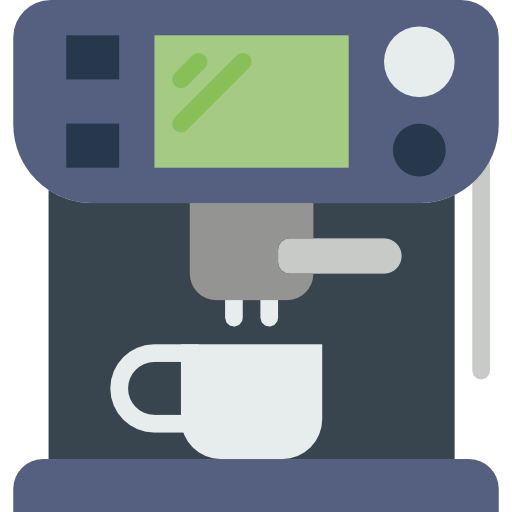
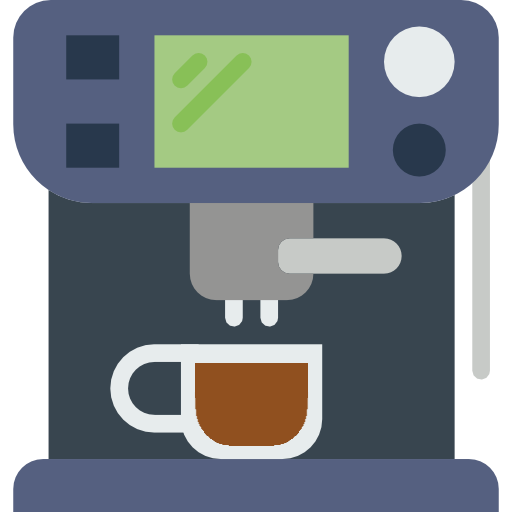
front-end demo

Changed region(s): [[0.375, 0.6875, 0.625, 0.875]]

diff --git a/src/main/webapp/templates/index.html b/src/main/webapp/templates/index.html
@@ -7,6 +7,7 @@
     <title>Coffee Machine</title>
     <link rel="stylesheet" href="https://stackpath.bootstrapcdn.com/bootstrap/4.1.3/css/bootstrap.min.css" integrity="sha384-MCw98/SFnGE8fJT3GXwEOngsV7Zt27NXFoaoApmYm81iuXoPkFOJwJ8ERdknLPMO" crossorigin="anonymous">
     <link href="https://fonts.googleapis.com/css?family=Gloria+Hallelujah" rel="stylesheet">
+    <link rel="stylesheet" href="https://use.fontawesome.com/releases/v5.3.1/css/all.css" integrity="sha384-mzrmE5qonljUremFsqc01SB46JvROS7bZs3IO2EmfFsd15uHvIt+Y8vEf7N7fWAU" crossorigin="anonymous">
     <link rel="stylesheet" href="/static/css/index.css">
     <script src="https://code.jquery.com/jquery-3.3.1.js" integrity="sha256-2Kok7MbOyxpgUVvAk/HJ2jigOSYS2auK4Pfzbm7uH60=" crossorigin="anonymous" defer></script>
     <script src="https://cdnjs.cloudflare.com/ajax/libs/popper.js/1.14.3/umd/popper.min.js" integrity="sha384-ZMP7rVo3mIykV+2+9J3UJ46jBk0WLaUAdn689aCwoqbBJiSnjAK/l8WvCWPIPm49" crossorigin="anonymous" defer></script>
@@ -29,21 +30,28 @@
                     <button id="espresso"></button>
                     <button id="long"></button>
                     <button id="doppio"></button>
-                    <button id="americano"><img src="/static/assets/americano.jpg"></button>
+                    <button id="americano"></button>
                 </div>
                 <div class="room-selector-wrapper">
-                    <button id="RED"></button>
-                    <button id="GREEN"></button>
-                    <button id="WHITE"></button>
-                    <button id="BLUE"></button>
+                    <button id="red">Red</button>
+                    <button id="green">Green</button>
+                    <button id="white">White</button>
+                    <button id="blue">Blue</button>
                 </div>
                 <div class="customer-name-wrapper">
                     <form id="customerForm" action="/" method="post">
-                        <label for="customerName">Your name</label><br>
                         <input id="customerName" type="text" name="customerName">
+                        <label id="customerNameLabel" for="customerName">Your name</label><br>
+                        <button type="submit" id="submitForm">Make my coffee <i class="fas fa-coffee"></i></button>
                     </form>
                 </div>
+                <div class="success">
+                    <img src="/static/assets/coffemade.gif">
+                </div>
             </div>
+            <div class="fill-coffee"></div>
+            <div class="coffee-flow flow1"></div>
+            <div class="coffee-flow flow2"></div>
         </div>
     </div>
 </body>

diff --git a/src/main/webapp/static/css/index.css b/src/main/webapp/static/css/index.css
@@ -123,6 +123,142 @@ body {
     display: none;
 }
 
+.room-selector-wrapper button {
+    position: absolute;
+    width: 18.5vh;
+    height: 13vh;
+    border: none;
+}
+
+.room-selector-wrapper button:hover {
+    border: 1px solid yellow;
+}
+
+.room-selector-wrapper #red {
+    top: 0;
+    left: 0;
+    background: red;
+    color: white;
+}
+
+.room-selector-wrapper #green {
+    top: 0;
+    right: 0;
+    background: green;
+    color: white;
+}
+
+.room-selector-wrapper #white {
+    top: 13vh;
+    left: 0;
+    background: white;
+    color: black;
+}
+
+.room-selector-wrapper #blue {
+    top: 13vh;
+    right: 0;
+    background: blue;
+    color: white;
+}
+
 .customer-name-wrapper {
     display: none;
 }
+
+.customer-name-wrapper #customerForm {
+    position: relative;
+    background: saddlebrown;
+    width: 37vh;
+    height: 26vh;
+}
+
+.customer-name-wrapper label {
+    position: absolute;
+    top: 6vh;
+    left: 2vh;
+    color: white;
+    transition: top ease-in-out 0.3s, font-size ease-in-out 0.3s;
+    z-index: 1;
+}
+
+.customer-name-wrapper #customerName {
+    background: none;
+    border: none;
+    border-bottom: 2px solid white;
+    width: 33vh;
+    margin-left: 2vh;
+    position: absolute;
+    top: 6vh;
+    color: white;
+    z-index: 2;
+}
+
+.customer-name-wrapper #customerName:focus {
+    outline: none;
+}
+
+.customer-name-wrapper #customerName:focus ~ #customerNameLabel {
+    position: absolute;
+    font-size: smaller;
+    top: 3vh;
+}
+
+.customer-name-wrapper #submitForm{
+    font-size: larger;
+    color: saddlebrown;
+    background: white;
+    border: none;
+    position: absolute;
+    top: 13vh;
+    width: 33vh;
+    height: 6vh;
+    margin: 2vh;
+    font-weight: bolder;
+    transition: color ease-in-out 0.15s, background ease-in-out 0.15s, border ease-in-out 0.15s;
+}
+
+.customer-name-wrapper #submitForm:hover{
+    color: white;
+    background: saddlebrown;
+    border: 1px solid white;
+}
+
+.success {
+    display: none;
+    background: white;
+    width: 37vh;
+    height: 26vh;
+}
+
+.success img {
+    left: 1.8vh;
+    position: absolute;
+    height: 26vh;
+}
+.fill-coffee {
+    width: 21.1vh;
+    height: 16.7vh;
+    position: absolute;
+    top: 71.6vh;
+    left: 36.1vh;
+    background: #e7eced;
+}
+
+.coffee-flow {
+    position: absolute;
+    width: 1.7vh;
+    height: 3.5vh;
+    top: 65.4vh;
+    background: #90501f;
+    display: none;
+}
+
+.coffee-flow.flow1 {
+    left: 42.6vh;
+}
+
+.coffee-flow.flow2 {
+    left: 49.2vh;
+}
+

diff --git a/src/main/webapp/static/js/index.js b/src/main/webapp/static/js/index.js
@@ -1,10 +1,52 @@
+var coffeeType;
+var customerRoom;
+var customerName;
+
 $(".coffee-selector-wrapper button").click(function () {
     event.preventDefault();
-    $("#customerForm").append("<input type='hidden' name='coffeeType' value='" + $(this).attr("id") + "'/>");
-    $(".coffee-selector-wrapper").slideDown();
-    $(".room-selector-wrapper").slideDown();
-
+    coffeeType = $(this).attr("id");
+    $(".coffee-selector-wrapper").fadeOut();
+    $(".room-selector-wrapper").fadeIn();
 });
+
+$(".room-selector-wrapper button").click(function () {
+    event.preventDefault();
+    customerRoom = $(this).attr("id");
+    $(".room-selector-wrapper").fadeOut();
+    $(".customer-name-wrapper").fadeIn();
+});
+
+$("#customerForm button").click(function () {
+    event.preventDefault();
+    customerName = $("#customerForm #customerName").val();
+    $.ajax({
+        type: 'post',
+        url: '/',
+        data: "coffeeType=" + coffeeType + "&customerRoom=" + customerRoom + "&customerName=" + customerName,
+        success: function(data){
+            $(".customer-name-wrapper").fadeOut();
+            $(".success").delay(400).fadeIn();
+            $(".fill-coffee").delay(600).slideUp(2000);
+            $(".coffee-flow").delay(600).fadeIn(0).delay(1500).fadeOut(0);
+        }
+    });
+});
+
+// $(".coffee-selector-wrapper button").click(function () {
+//     event.preventDefault();
+//     $("#customerForm").append("<input type='hidden' name='coffeeType' value='" + $(this).attr("id") + "'/>");
+//     $(".coffee-selector-wrapper").fadeOut();
+//     $(".room-selector-wrapper").fadeIn();
+//
+// });
+//
+// $(".room-selector-wrapper button").click(function () {
+//     event.preventDefault();
+//     $("#customerForm").append("<input type='hidden' name='customerRoom' value='" + $(this).attr("id") + "'/>");
+//     $(".room-selector-wrapper").fadeOut();
+//     $(".customer-name-wrapper").fadeIn();
+//
+// });
 
 
 
